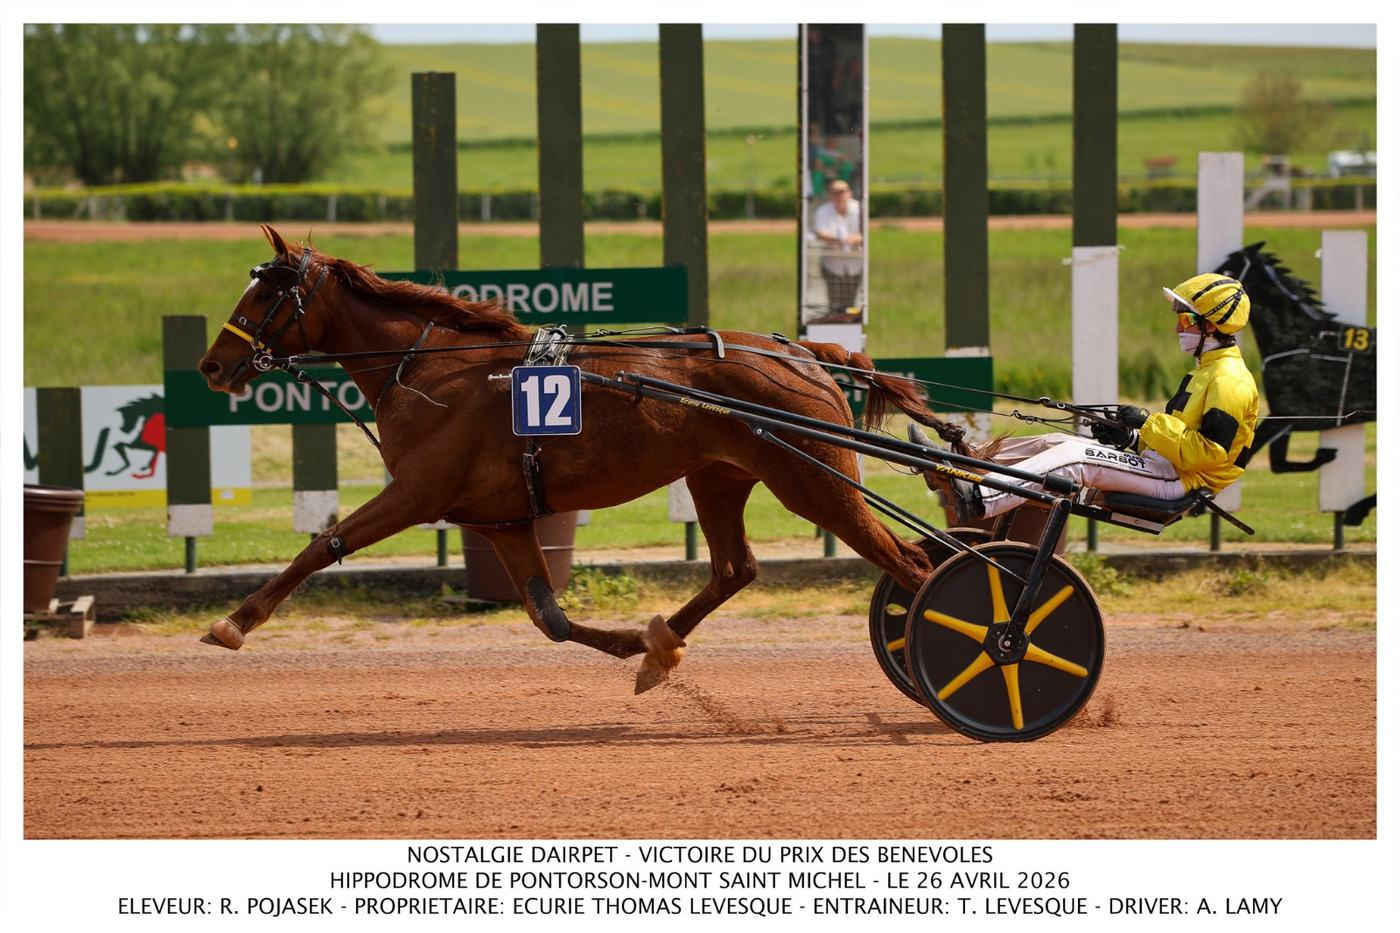
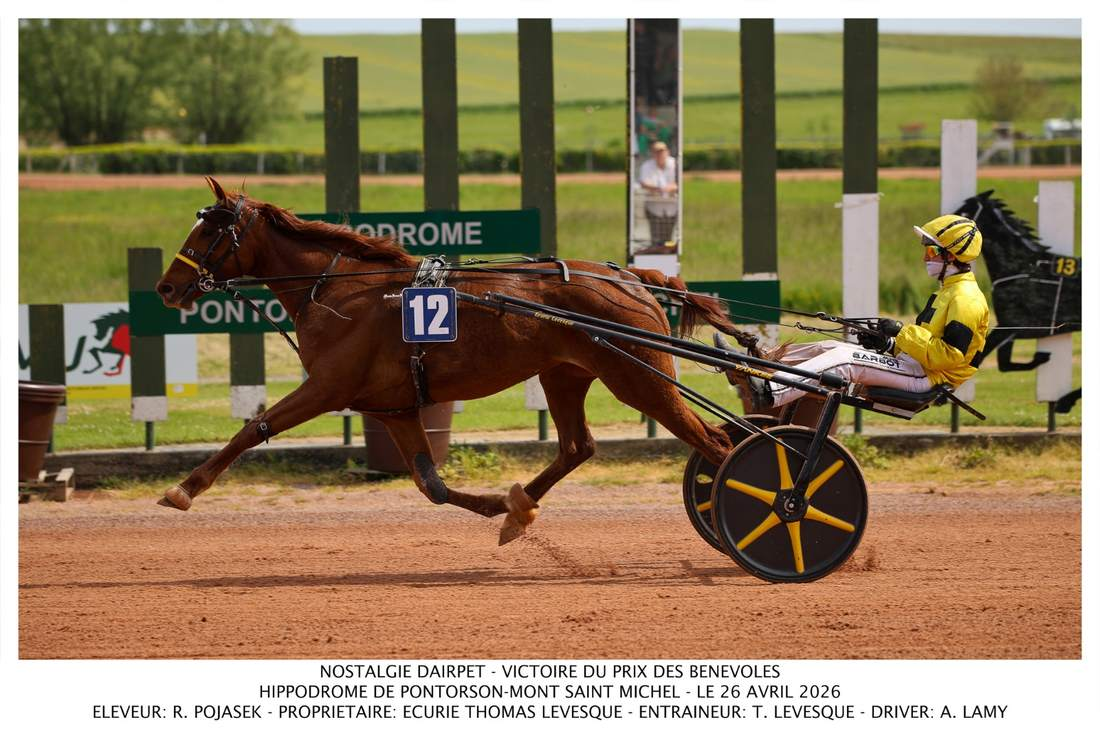
Publier 19 photos de chevaux et corriger le cadrage des fiches

diff --git a/docs/chevaux/assets/style.css b/docs/chevaux/assets/style.css
@@ -1,4 +1,4 @@
-:root{color-scheme:light;--accent:#f47721;--ink:#191919;--muted:#656565;--cream:#fff8f3;--line:#e9e5e1;--white:#fff;--shadow:0 15px 35px rgba(26,20,14,.07)}*{box-sizing:border-box}html{scroll-behavior:smooth}body{margin:0;background:#fcfbf9;color:var(--ink);font:16px/1.55 Arial,Helvetica,sans-serif}a{color:inherit}a:focus-visible,button:focus-visible,input:focus-visible{outline:3px solid #de6516;outline-offset:4px}button,input{font:inherit}.shell{max-width:1170px;margin:auto;padding:0 23px}.top{background:var(--ink);color:#fff;border-bottom:5px solid var(--accent)}.top-inner{min-height:81px;display:flex;align-items:center;justify-content:space-between;gap:16px}.wordmark{display:flex;align-items:center;gap:12px;text-decoration:none;font-size:19px;font-weight:900;letter-spacing:1px;line-height:1.15}.wordmark-emblem{height:36px;width:36px;border:3px solid var(--accent);display:grid;place-items:center;border-radius:50%;color:var(--accent);font-size:21px;font-weight:900}.wordmark small{display:block;font-size:10px;letter-spacing:1.7px;font-weight:500;color:#e2d9d1}.top-nav{display:flex;gap:22px;align-items:center;font-size:13px;font-weight:700;flex-wrap:wrap}.top-nav a{text-decoration:none;color:#fff}.top-nav a:hover{color:#ffad71}.breadcrumb{margin:28px 0 12px;font-size:13px;color:var(--muted)}.breadcrumb a{color:#9a501e;text-decoration:none}.eyebrow{font-size:12px;letter-spacing:2px;color:#a64c11;font-weight:900;text-transform:uppercase}.page-title{margin:5px 0 12px;font-weight:900;font-size:clamp(31px,5.5vw,54px);line-height:1.08;letter-spacing:-1.6px}.lead{max-width:690px;color:#5d5954;margin:0 0 27px}.orange-line{width:68px;height:5px;background:var(--accent);border-radius:3px;margin-bottom:20px}.filter-strip{background:#fff;border:1px solid var(--line);border-radius:16px;padding:16px;display:flex;align-items:center;gap:13px;flex-wrap:wrap;box-shadow:var(--shadow);margin-bottom:26px}.filter-strip input{border:1px solid #dad4cf;border-radius:9px;padding:12px 14px;min-width:220px;flex:1;background:white}.filter-buttons{display:flex;gap:7px;flex-wrap:wrap}.filter-buttons button{border:1px solid #e0d8d0;border-radius:999px;padding:10px 14px;color:#333;background:white;cursor:pointer;font-size:13px;font-weight:700}.filter-buttons button[aria-pressed=true]{background:var(--ink);color:white;border-color:var(--ink)}.grid{display:grid;grid-template-columns:repeat(3,minmax(0,1fr));gap:18px;margin-bottom:42px}.horse-card{display:block;text-decoration:none;border-radius:17px;background:#fff;border:1px solid #eee8e4;box-shadow:var(--shadow);overflow:hidden;transition:transform .16s,box-shadow .16s}.horse-card:hover{transform:translateY(-3px);box-shadow:0 19px 32px rgba(23,16,10,.13)}.horse-card-photo{position:relative;aspect-ratio:16/9;display:flex;align-items:center;justify-content:center;background:linear-gradient(130deg,#f4eee7,#fff7f0)}.horse-card-photo img.photo{object-fit:cover;width:100%;height:100%}.horse-card-photo img.silk{width:85px;height:96px;object-fit:contain}.horse-card-photo .kind{position:absolute;top:13px;left:14px;background:#1d1d1d;color:#fff;font-size:11px;border-radius:5px;padding:5px 9px;text-transform:uppercase;letter-spacing:.6px;font-weight:800}.horse-card-body{padding:17px 19px}.horse-card-body h2{font-size:20px;line-height:1.2;letter-spacing:-.3px;margin:0 0 6px}.horse-card-body p{margin:0;color:var(--muted);font-size:13px}.card-bottom{display:flex;justify-content:space-between;align-items:center;margin-top:15px;padding-top:13px;border-top:1px solid var(--line);font-size:12px;color:#a64c11;font-weight:800}.card-bottom b{color:#242424;font-size:14px}.hero{display:grid;grid-template-columns:1.3fr 1fr;gap:34px;align-items:center;margin-top:22px}.hero-photo{aspect-ratio:16/10;border-radius:18px;overflow:hidden;background:linear-gradient(115deg,#f6e8dc,#fff6ed);box-shadow:var(--shadow);display:flex;align-items:center;justify-content:center;position:relative}.hero-photo img.photo{height:100%;width:100%;object-fit:cover}.hero-photo img.silk{height:55%;max-width:60%;object-fit:contain}.placeholder-tag{position:absolute;bottom:17px;left:17px;background:#fffdfbe8;border:1px solid #eee;padding:6px 11px;border-radius:6px;font-size:12px;color:#65605e}.hero-info h1{font-size:clamp(35px,5.1vw,57px);letter-spacing:-1.6px;line-height:1.03;margin:7px 0 14px}.hero-info p{color:#595450;margin:5px 0}.tag{display:inline-block;border-radius:99px;background:#ffe9d8;color:#934510;font-size:12px;font-weight:900;letter-spacing:.65px;padding:6px 11px;text-transform:uppercase}.tag.rest{background:#f5eee4;color:#836b52}.hero-info .driver{margin:21px 0 10px;font-size:17px;color:#242424;font-weight:700}.summary{display:grid;grid-template-columns:repeat(2,minmax(0,1fr));gap:16px;margin:28px 0 32px}.summary-card{border:1px solid #f1dbcd;background:#fff8f3;border-radius:14px;padding:18px 19px}.summary-card span{display:block;text-transform:uppercase;font-size:11px;letter-spacing:.8px;font-weight:800;color:#8d5937;margin-bottom:8px}.summary-card strong{font-size:clamp(21px,2.7vw,30px);font-weight:900;line-height:1.15;display:block}.section{margin:35px 0}.section-title{display:flex;align-items:center;gap:11px;font-size:25px;font-weight:900;margin:0 0 13px;line-height:1.2}.section-title:before{content:"";height:29px;width:6px;border-radius:4px;background:var(--accent);flex-shrink:0}.paper{border:1px solid var(--line);border-radius:14px;background:#fff;overflow:hidden;box-shadow:var(--shadow)}.info-grid{display:grid;grid-template-columns:repeat(2,minmax(0,1fr));gap:0}.info-item{padding:16px 22px;border-bottom:1px solid var(--line)}.info-item:nth-child(odd){border-right:1px solid var(--line)}.info-item:last-child,.info-item:nth-last-child(2){border-bottom:0}.info-item span{display:block;color:var(--muted);font-size:12px;text-transform:uppercase;letter-spacing:.5px;font-weight:700;margin-bottom:4px}.info-item strong{font-size:16px}.table-wrap{overflow:auto}.perf-table{border-collapse:collapse;width:100%;min-width:560px}.perf-table th{text-transform:uppercase;font-size:11px;letter-spacing:.9px;background:#242424;color:white;text-align:left;padding:13px 16px}.perf-table td{font-size:14px;padding:15px 16px;border-bottom:1px solid #eee}.perf-table tr:last-child td{border-bottom:0}.perf-table tbody tr:nth-child(even){background:#fffaf6}.rank{color:#b5571b;font-weight:900}.empty{padding:23px;color:#6f6963;font-size:14px}.notice{font-size:12px;color:var(--muted);margin:12px 0 0}.external{display:inline-flex;align-items:center;gap:9px;text-decoration:none;color:#9c4a19;font-size:14px;font-weight:800;margin-top:14px}.bottom-actions{display:flex;gap:12px;flex-wrap:wrap;margin:40px 0 55px}.action{border-radius:9px;text-decoration:none;display:inline-block;font-weight:800;font-size:13px;padding:12px 17px}.action.primary{color:#fff;background:#242424}.action.secondary{color:#733913;background:#ffeadb}.footer{border-top:1px solid #e7e1db;padding:24px 0;color:#75706c;text-align:center;font-size:12px}.error{padding:35px;background:#fff4eb;border:1px solid #edc4ab;border-radius:16px}.hide{display:none!important}@media(max-width:900px){.grid{grid-template-columns:repeat(2,minmax(0,1fr))}.hero{grid-template-columns:1fr;gap:24px}.summary{grid-template-columns:repeat(2,minmax(0,1fr))}.hero-photo{max-height:560px}}@media(max-width:590px){.shell{padding-left:15px;padding-right:15px}.top-inner{align-items:flex-start;padding:17px 0;flex-direction:column}.top-nav{gap:14px}.grid{grid-template-columns:1fr}.filter-strip{align-items:stretch;flex-direction:column}.filter-strip input{min-width:0;width:100%}.info-grid{grid-template-columns:1fr}.info-item:nth-child(odd){border-right:0}.info-item:nth-last-child(2){border-bottom:1px solid var(--line)}.summary-card{padding:14px}.summary-card strong{font-size:21px}.hero-info h1{font-size:39px}.page-title{letter-spacing:-1px}}
+:root{color-scheme:light;--accent:#f47721;--ink:#191919;--muted:#656565;--cream:#fff8f3;--line:#e9e5e1;--white:#fff;--shadow:0 15px 35px rgba(26,20,14,.07)}*{box-sizing:border-box}html{scroll-behavior:smooth}body{margin:0;background:#fcfbf9;color:var(--ink);font:16px/1.55 Arial,Helvetica,sans-serif}a{color:inherit}a:focus-visible,button:focus-visible,input:focus-visible{outline:3px solid #de6516;outline-offset:4px}button,input{font:inherit}.shell{max-width:1170px;margin:auto;padding:0 23px}.top{background:var(--ink);color:#fff;border-bottom:5px solid var(--accent)}.top-inner{min-height:81px;display:flex;align-items:center;justify-content:space-between;gap:16px}.wordmark{display:flex;align-items:center;gap:12px;text-decoration:none;font-size:19px;font-weight:900;letter-spacing:1px;line-height:1.15}.wordmark-emblem{height:36px;width:36px;border:3px solid var(--accent);display:grid;place-items:center;border-radius:50%;color:var(--accent);font-size:21px;font-weight:900}.wordmark small{display:block;font-size:10px;letter-spacing:1.7px;font-weight:500;color:#e2d9d1}.top-nav{display:flex;gap:22px;align-items:center;font-size:13px;font-weight:700;flex-wrap:wrap}.top-nav a{text-decoration:none;color:#fff}.top-nav a:hover{color:#ffad71}.breadcrumb{margin:28px 0 12px;font-size:13px;color:var(--muted)}.breadcrumb a{color:#9a501e;text-decoration:none}.eyebrow{font-size:12px;letter-spacing:2px;color:#a64c11;font-weight:900;text-transform:uppercase}.page-title{margin:5px 0 12px;font-weight:900;font-size:clamp(31px,5.5vw,54px);line-height:1.08;letter-spacing:-1.6px}.lead{max-width:690px;color:#5d5954;margin:0 0 27px}.orange-line{width:68px;height:5px;background:var(--accent);border-radius:3px;margin-bottom:20px}.filter-strip{background:#fff;border:1px solid var(--line);border-radius:16px;padding:16px;display:flex;align-items:center;gap:13px;flex-wrap:wrap;box-shadow:var(--shadow);margin-bottom:26px}.filter-strip input{border:1px solid #dad4cf;border-radius:9px;padding:12px 14px;min-width:220px;flex:1;background:white}.filter-buttons{display:flex;gap:7px;flex-wrap:wrap}.filter-buttons button{border:1px solid #e0d8d0;border-radius:999px;padding:10px 14px;color:#333;background:white;cursor:pointer;font-size:13px;font-weight:700}.filter-buttons button[aria-pressed=true]{background:var(--ink);color:white;border-color:var(--ink)}.grid{display:grid;grid-template-columns:repeat(3,minmax(0,1fr));gap:18px;margin-bottom:42px}.horse-card{display:block;text-decoration:none;border-radius:17px;background:#fff;border:1px solid #eee8e4;box-shadow:var(--shadow);overflow:hidden;transition:transform .16s,box-shadow .16s}.horse-card:hover{transform:translateY(-3px);box-shadow:0 19px 32px rgba(23,16,10,.13)}.horse-card-photo{position:relative;aspect-ratio:16/9;display:flex;align-items:center;justify-content:center;background:linear-gradient(130deg,#f4eee7,#fff7f0)}.horse-card-photo img.photo{object-fit:cover;width:100%;height:100%}.horse-card-photo img.silk{width:85px;height:96px;object-fit:contain}.horse-card-photo .kind{position:absolute;top:13px;left:14px;background:#1d1d1d;color:#fff;font-size:11px;border-radius:5px;padding:5px 9px;text-transform:uppercase;letter-spacing:.6px;font-weight:800}.horse-card-body{padding:17px 19px}.horse-card-body h2{font-size:20px;line-height:1.2;letter-spacing:-.3px;margin:0 0 6px}.horse-card-body p{margin:0;color:var(--muted);font-size:13px}.card-bottom{display:flex;justify-content:space-between;align-items:center;margin-top:15px;padding-top:13px;border-top:1px solid var(--line);font-size:12px;color:#a64c11;font-weight:800}.card-bottom b{color:#242424;font-size:14px}.hero{display:grid;grid-template-columns:1.3fr 1fr;gap:34px;align-items:center;margin-top:22px}.hero-photo{aspect-ratio:16/10;border-radius:18px;overflow:hidden;background:linear-gradient(115deg,#f6e8dc,#fff6ed);box-shadow:var(--shadow);display:flex;align-items:center;justify-content:center;position:relative}.hero-photo img.photo{height:100%;width:100%;object-fit:contain;object-position:center;background:#fff9f2}.hero-photo img.silk{height:55%;max-width:60%;object-fit:contain}.placeholder-tag{position:absolute;bottom:17px;left:17px;background:#fffdfbe8;border:1px solid #eee;padding:6px 11px;border-radius:6px;font-size:12px;color:#65605e}.hero-info h1{font-size:clamp(35px,5.1vw,57px);letter-spacing:-1.6px;line-height:1.03;margin:7px 0 14px}.hero-info p{color:#595450;margin:5px 0}.tag{display:inline-block;border-radius:99px;background:#ffe9d8;color:#934510;font-size:12px;font-weight:900;letter-spacing:.65px;padding:6px 11px;text-transform:uppercase}.tag.rest{background:#f5eee4;color:#836b52}.hero-info .driver{margin:21px 0 10px;font-size:17px;color:#242424;font-weight:700}.summary{display:grid;grid-template-columns:repeat(2,minmax(0,1fr));gap:16px;margin:28px 0 32px}.summary-card{border:1px solid #f1dbcd;background:#fff8f3;border-radius:14px;padding:18px 19px}.summary-card span{display:block;text-transform:uppercase;font-size:11px;letter-spacing:.8px;font-weight:800;color:#8d5937;margin-bottom:8px}.summary-card strong{font-size:clamp(21px,2.7vw,30px);font-weight:900;line-height:1.15;display:block}.section{margin:35px 0}.section-title{display:flex;align-items:center;gap:11px;font-size:25px;font-weight:900;margin:0 0 13px;line-height:1.2}.section-title:before{content:"";height:29px;width:6px;border-radius:4px;background:var(--accent);flex-shrink:0}.paper{border:1px solid var(--line);border-radius:14px;background:#fff;overflow:hidden;box-shadow:var(--shadow)}.info-grid{display:grid;grid-template-columns:repeat(2,minmax(0,1fr));gap:0}.info-item{padding:16px 22px;border-bottom:1px solid var(--line)}.info-item:nth-child(odd){border-right:1px solid var(--line)}.info-item:last-child,.info-item:nth-last-child(2){border-bottom:0}.info-item span{display:block;color:var(--muted);font-size:12px;text-transform:uppercase;letter-spacing:.5px;font-weight:700;margin-bottom:4px}.info-item strong{font-size:16px}.table-wrap{overflow:auto}.perf-table{border-collapse:collapse;width:100%;min-width:560px}.perf-table th{text-transform:uppercase;font-size:11px;letter-spacing:.9px;background:#242424;color:white;text-align:left;padding:13px 16px}.perf-table td{font-size:14px;padding:15px 16px;border-bottom:1px solid #eee}.perf-table tr:last-child td{border-bottom:0}.perf-table tbody tr:nth-child(even){background:#fffaf6}.rank{color:#b5571b;font-weight:900}.empty{padding:23px;color:#6f6963;font-size:14px}.notice{font-size:12px;color:var(--muted);margin:12px 0 0}.external{display:inline-flex;align-items:center;gap:9px;text-decoration:none;color:#9c4a19;font-size:14px;font-weight:800;margin-top:14px}.bottom-actions{display:flex;gap:12px;flex-wrap:wrap;margin:40px 0 55px}.action{border-radius:9px;text-decoration:none;display:inline-block;font-weight:800;font-size:13px;padding:12px 17px}.action.primary{color:#fff;background:#242424}.action.secondary{color:#733913;background:#ffeadb}.footer{border-top:1px solid #e7e1db;padding:24px 0;color:#75706c;text-align:center;font-size:12px}.error{padding:35px;background:#fff4eb;border:1px solid #edc4ab;border-radius:16px}.hide{display:none!important}@media(max-width:900px){.grid{grid-template-columns:repeat(2,minmax(0,1fr))}.hero{grid-template-columns:1fr;gap:24px}.summary{grid-template-columns:repeat(2,minmax(0,1fr))}.hero-photo{max-height:560px}}@media(max-width:590px){.shell{padding-left:15px;padding-right:15px}.top-inner{align-items:flex-start;padding:17px 0;flex-direction:column}.top-nav{gap:14px}.grid{grid-template-columns:1fr}.filter-strip{align-items:stretch;flex-direction:column}.filter-strip input{min-width:0;width:100%}.info-grid{grid-template-columns:1fr}.info-item:nth-child(odd){border-right:0}.info-item:nth-last-child(2){border-bottom:1px solid var(--line)}.summary-card{padding:14px}.summary-card strong{font-size:21px}.hero-info h1{font-size:39px}.page-title{letter-spacing:-1px}}
 /* Fiches sobres : deux statistiques utiles sans répétition */
 .hero-info .driver{margin:24px 0 0;font-size:17px;color:#242424;font-weight:700}
 .summary-card{padding:22px 25px;min-width:0}
